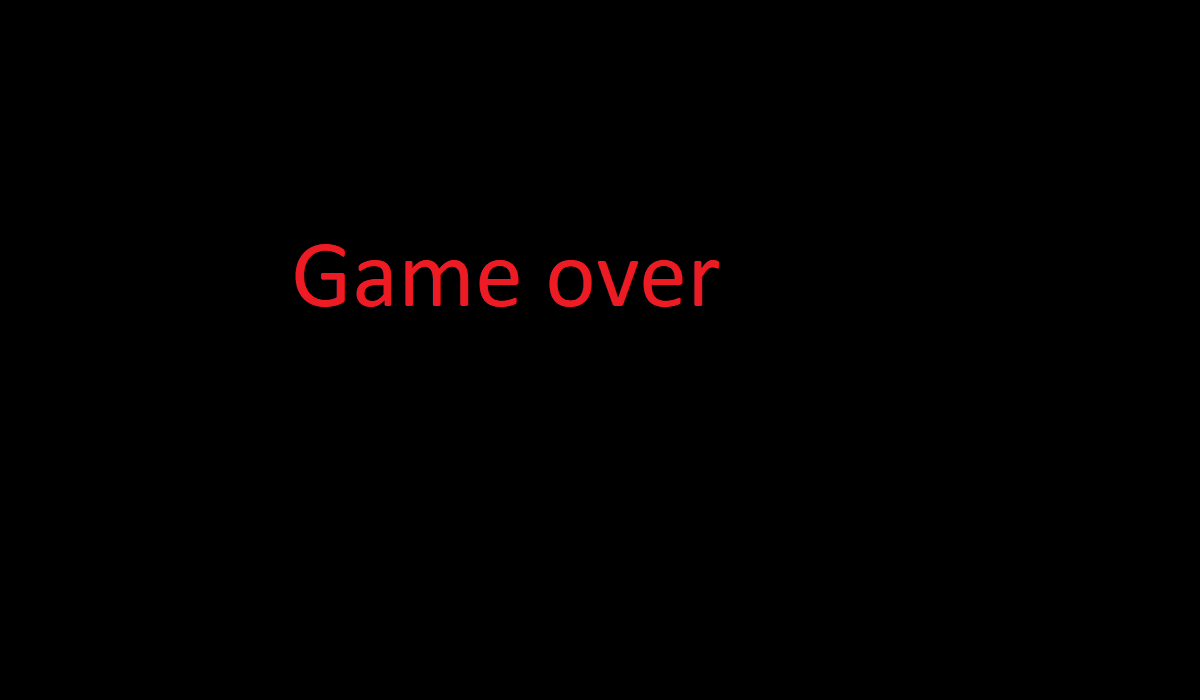
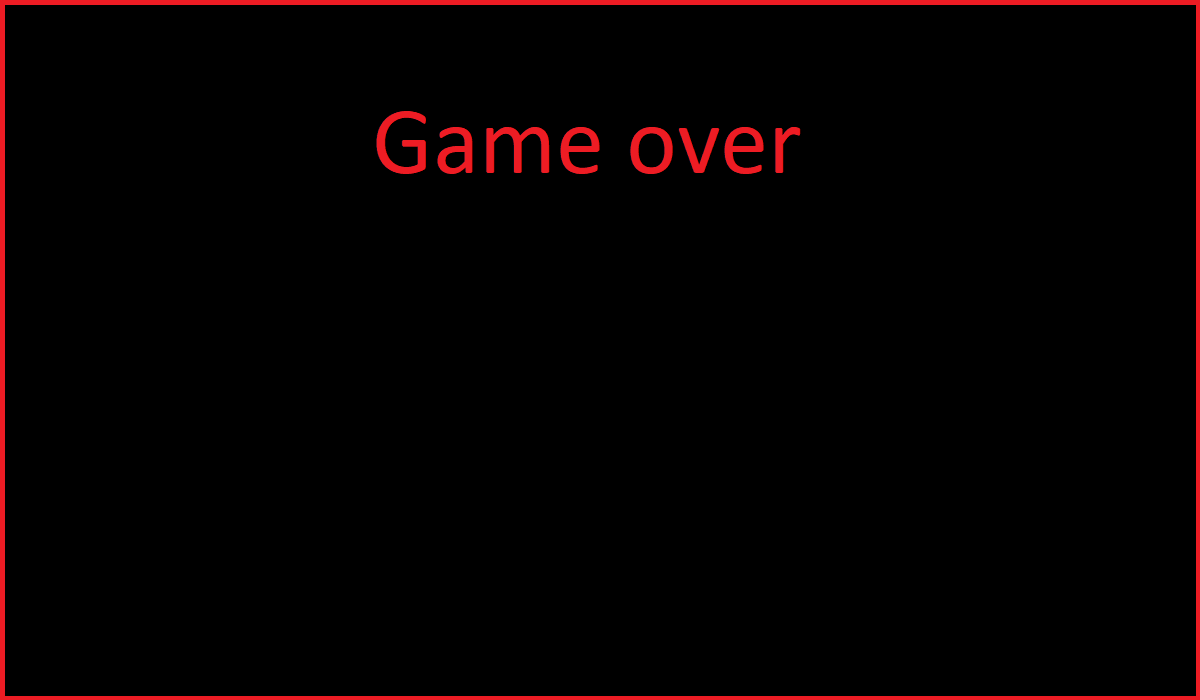
End game screen, waves

Changed region(s): [[0.0, 0.0, 1.0, 1.0], [0.2467, 0.33, 0.6167, 0.45], [0.3083, 0.15, 0.6783, 0.27]]

diff --git a/Game/game.py b/Game/game.py
@@ -64,6 +64,7 @@ class Game:
         self.towers = []
         self.lives = 10
         self.coins = 200
+        self.game_win = False
 
         # wave
         self.wave_0 = 4
@@ -83,6 +84,8 @@ class Game:
         self.menu_map = pygame.image.load(os.path.join("..\Grafika", "Menu.png"))
         self.game_over_map = pygame.image.load(os.path.join("..\Grafika", "GameOver.png"))
         self.pauza_map = pygame.image.load(os.path.join("..\Grafika", "Pauza.png"))
+        self.win_screen = pygame.image.load(os.path.join("..\Grafika", "Win.png"))
+
 
         # Buttons initialisation:
         # Main Menu:
@@ -96,7 +99,8 @@ class Game:
         self.button_collision = False
         self.clicked = False
         self.ui_font = pygame.font.SysFont("Arial", 20)
-        self.ui = UI(self.width-100, 0, 100, self.height, self.ui_r_p_img, self.ui_up_p_img, self.ui_font, self.coins)
+        self.ui = UI(self.width-100, 0, 100, self.height, self.ui_r_p_img, self.ui_up_p_img,
+                     self.ui_font, self.coins, self.level)
         self.tow_place_mode = False
         self.place_mode = 0
         # self.base_pos1 = ()
@@ -177,7 +181,7 @@ class Game:
                             tow.x, tow.y = mx, my
                             self.towers.append(tow)
                             # Testing shot
-                            self.shots.append(Shot())
+                            # self.shots.append(Shot())
                             self.coins -= 100
 
 
@@ -200,7 +204,7 @@ class Game:
             if self.game_active == True:
                 # loop through enemies
                 to_del = []
-                self.ui.update(self.coins)
+                self.ui.update(self.coins, self.level)
 
                 for en in self.enemys:
                     for tow in self.towers:
@@ -230,11 +234,15 @@ class Game:
 
                 # creates wave of enemies
                 if self.level == 1:
-                    self.wave_spwn(120, 2)
+                    self.wave_spwn(self.fps, 120, 3)
                 elif self.level == 2:
-                    self.wave_spwn(120, 5)
+                    self.wave_spwn(self.fps*0.7, 120, 5)
                 elif self.level == 3:
-                    self.wave_spwn(240, 8)
+                    self.wave_spwn(self.fps/3, 120, 12)
+                elif self.level == 4:
+                    self.game_win = True
+                    self.game_active = False
+
 
                 # if len(self.enemys) == 0 and :
                 #     self.level += 1
@@ -295,8 +303,24 @@ class Game:
 
 
         else:
+            self.exit_button.clicked = False
+            self.try_again_button.clicked = False
             if self.game_over:
                 self.win.blit(self.game_over_map, (0, 0))
+                self.exit_button.draw(self.win)
+                if self.exit_button.click_check():
+                    self.quit = True
+                    self.exit_button.click_check()
+
+                self.try_again_button.draw(self.win)
+                if self.try_again_button.click_check():
+                    self.game_reset()
+                    self.game_over = False
+                    self.tow1_place_mode = False
+                    self.try_again_button.click_check()
+
+            elif self.game_win:
+                self.win.blit(self.win_screen, (0, 0))
 
                 self.exit_button.draw(self.win)
                 if self.exit_button.click_check():
@@ -335,17 +359,22 @@ class Game:
             pygame.display.update()
 
 
-    def wave_spwn(self, delay, en_num):
+    def wave_spwn(self, cur_del, delay, en_num):
         # creates wave of enemies
-        if (self.cur_delay >= self.fps) and (self.spawn_cntr < en_num) and (self.spawn_wave) and self.spawn_delay > delay:
-            self.enemys.append(Grey())
+        if (self.cur_delay >= cur_del) and (self.spawn_cntr < en_num) and (self.spawn_wave) and self.spawn_delay > delay:
+            en = Grey()
+            if self.level == 2:
+                en.vel = 15
+            elif self.level == 3:
+                en.vel = 20
+            self.enemys.append(en)
             self.spawn_cntr += 1
             self.cur_delay = 0
         else:
             self.cur_delay += 1
             self.spawn_delay += 1
 
-        if self.spawn_delay >= delay-1 and self.spawn_cntr >= en_num:
+        if self.spawn_delay >= delay-1 and self.spawn_cntr >= en_num and len(self.enemys) <= 0:
             self.spawn_delay = 0
             self.spawn_cntr = 0
             self.level += 1
@@ -358,8 +387,10 @@ class Game:
             self.towers.remove(tow)
         self.spawn_cntr = 0
         self.base.hp = 100
-        self.coins = 100
+        self.coins = 200
         self.spawn_delay = 0
+        self.level = 1
+        self.game_win = False
 
 
     # Function to draw UI

diff --git a/menu/UI.py b/menu/UI.py
@@ -36,7 +36,7 @@ class Res_indicator:
 
 class UI:
 
-    def __init__(self, x, y, width, height, r_panel, up_panel, font, coins):
+    def __init__(self, x, y, width, height, r_panel, up_panel, font, coins, level):
         self.ui_font = font
 
         self.image = pygame.transform.scale(r_panel, (int(width), int(height)))
@@ -48,6 +48,7 @@ class UI:
         self.clicked = False
 
         self.coins_num = coins
+        self.level_num = level
         # self.coins = Res_indicator(10, 5, "Coins: " + str(self.coins_num), self.ui_font, (0, 0, 0))
         self.tow1_btn_img = pygame.image.load(os.path.join("..\Grafika", "tow1_btn.png"))
         self.tow1_btn = Button(self.rect.x+width//2-25, self.rect.y+25, 50, 50, self.tow1_btn_img, True)
@@ -80,9 +81,12 @@ class UI:
         # rect.topleft = (x, y)
         win.blit(self.image, (self.rect.x, self.rect.y))
         self.up_panel.draw(win)
-        # win.blit(self.up_panel_img, (self.up_p_rect.x, self.up_p_rect.y))
+
         coins = Res_indicator(10, 5, "Coins: " + str(self.coins_num), self.ui_font, (0, 0, 0))
         coins.draw(win)
+        wave = Res_indicator(150, 5, "Wave: " + str(self.level_num), self.ui_font, (0, 0, 0))
+        wave.draw(win)
+
         self.tow1_btn.draw(win)
 
 
@@ -96,5 +100,6 @@ class UI:
         #
         # print(self.tow1_place_mode)
 
-    def update(self, coins):
+    def update(self, coins, level):
         self.coins_num = coins
+        self.level_num = level
